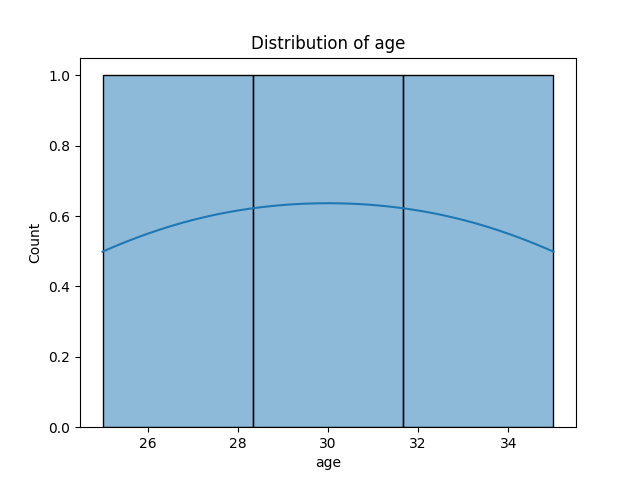
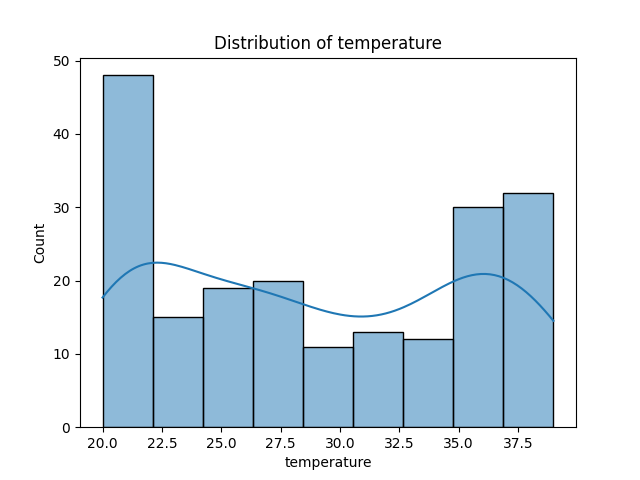
commit3

diff --git a/models/image_model.py b/models/image_model.py
@@ -3,11 +3,13 @@ import cv2
 import re
 import os
 # Try to set Tesseract path
+# Note: The installer at C:\Users\Admin\Downloads\tesseract-ocr-w64-setup-5.5.0.20241111.exe
+# will install Tesseract to C:\Program Files\Tesseract-OCR\tesseract.exe
 TESSERACT_PATHS = [
-    r'C:\Program Files\Tesseract-OCR\tesseract.exe',
-    r'C:\Program Files (x86)\Tesseract-OCR\tesseract.exe',
-    '/usr/bin/tesseract',
-    '/usr/local/bin/tesseract'
+    r'C:\Program Files\Tesseract-OCR\tesseract.exe',  # 64-bit default installation
+    r'C:\Program Files (x86)\Tesseract-OCR\tesseract.exe',  # 32-bit alternative
+    '/usr/bin/tesseract',  # Linux
+    '/usr/local/bin/tesseract'  # macOS
 ]
 
 for path in TESSERACT_PATHS:
